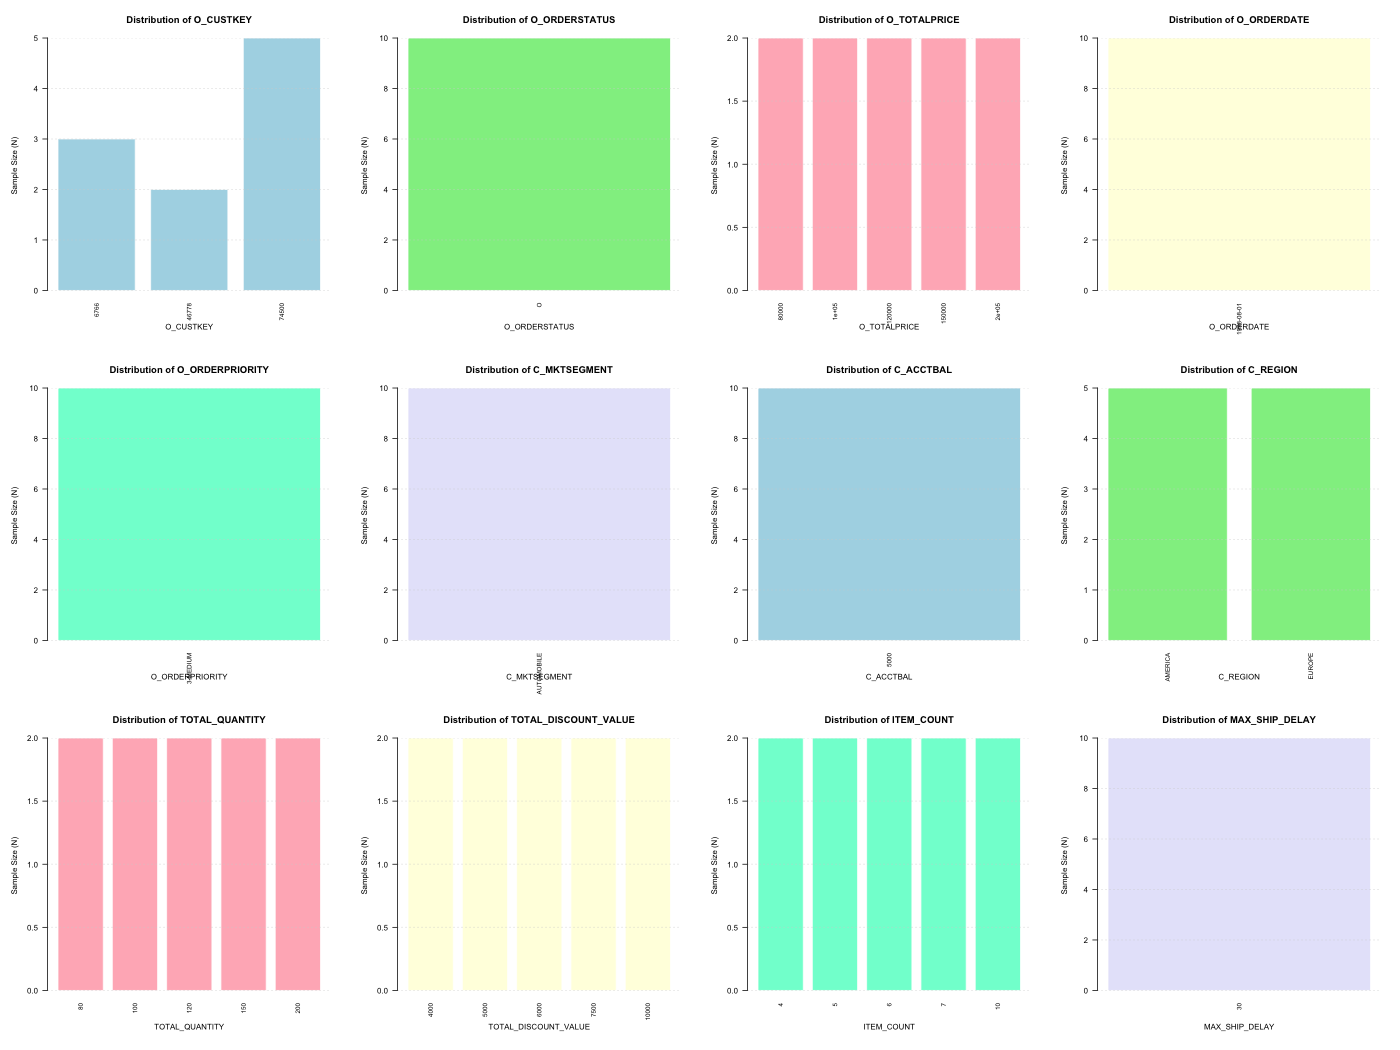
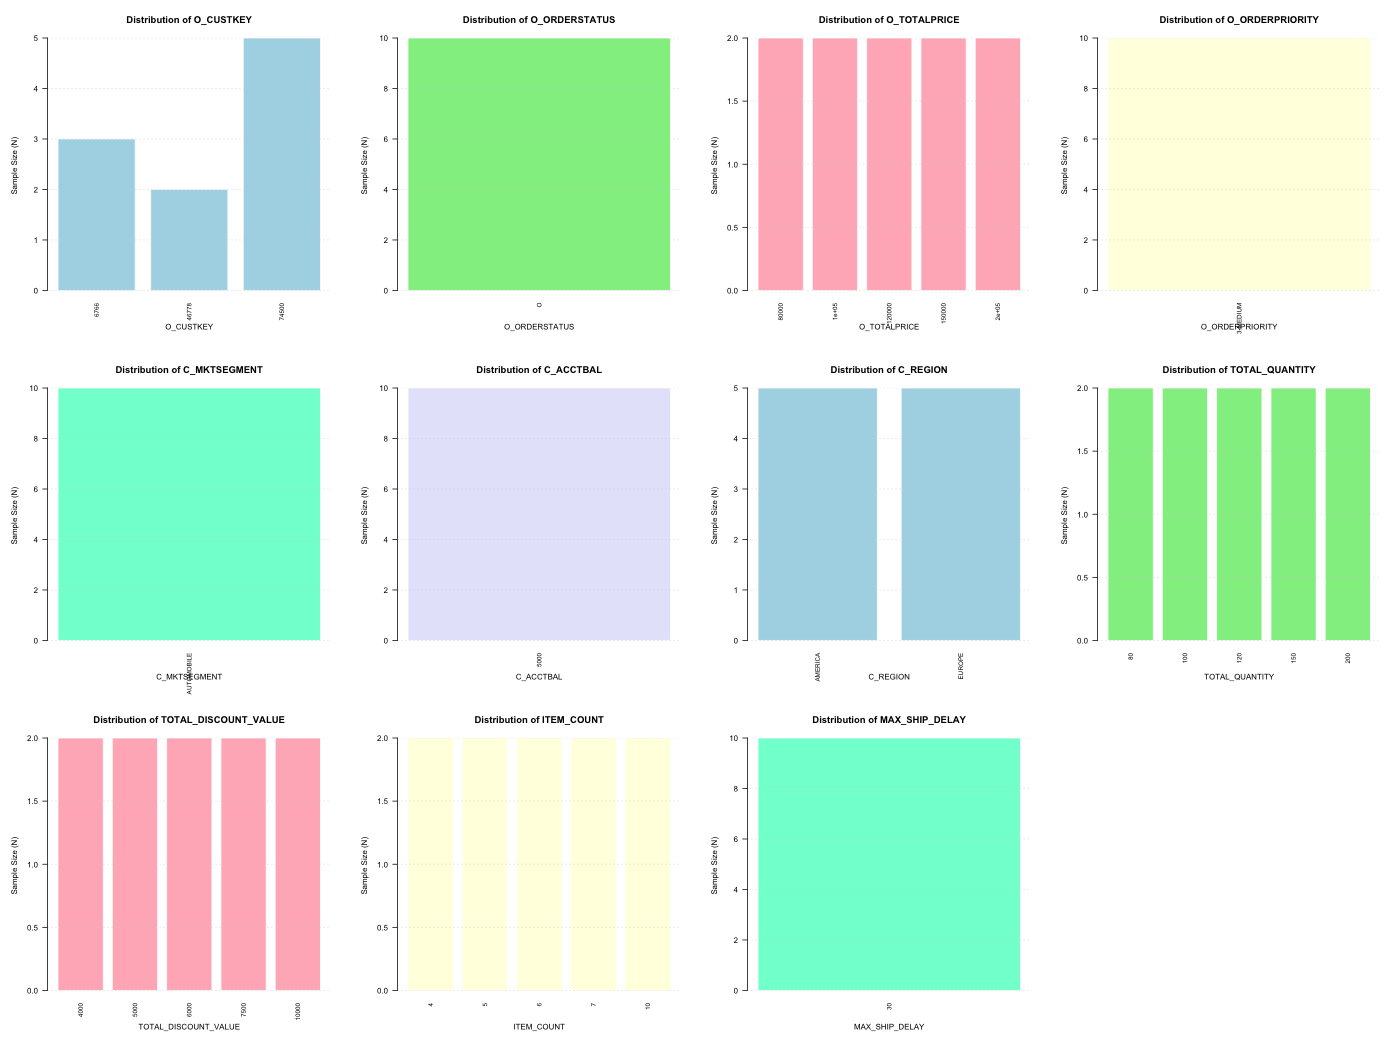
Add dynamic categorical lumping to support high-cardinality tree species columns

diff --git a/gen/customer_orders_anomalous_audit_report.md b/gen/customer_orders_anomalous_audit_report.md
@@ -1,6 +1,6 @@
 # SQL Data Quality and Behavior Analysis Lab Report: customer_orders_anomalous
 
-**Report Generated on:** 2026-07-21 16:42:36.187709
+**Report Generated on:** 2026-07-21 16:50:15.377051
 **Source Dataset:** `customer_orders_anomalous.csv`
 **Auditor Classification Status:** CRITICAL ANOMALY DETECTED 🔴
 
@@ -31,7 +31,6 @@ The demographic distribution of the sample is detailed below:
 | **O_TOTALPRICE** | 120000 | 2 | 20.00% |
 | **O_TOTALPRICE** | 150000 | 2 | 20.00% |
 | **O_TOTALPRICE** | 2e+05 | 2 | 20.00% |
-| **O_ORDERDATE** | 1998-08-01 | 10 | 100.00% |
 | **O_ORDERPRIORITY** | 3-MEDIUM | 10 | 100.00% |
 | **C_MKTSEGMENT** | AUTOMOBILE | 10 | 100.00% |
 | **C_ACCTBAL** | 5000 | 10 | 100.00% |
@@ -70,8 +69,8 @@ To profile user choice dynamics, click patterns, and decision hesitation (Pongra
 
 ### Experimental Design
 We define a mixed multivariate design incorporating:
-* **Independent Variables (Factors)**: `C_MKTSEGMENT` (Market Segment), `C_REGION` (Geographic region), and `O_ORDERPRIORITY` (Order priority).
-* **Dependent Variables (Metrics)**: `O_TOTALPRICE` (total price), `C_ACCTBAL` (account balance), `TOTAL_QUANTITY` (quantity ordered), `AVG_DISCOUNT` (average discount), `TOTAL_DISCOUNT_VALUE` (total discount value), `ITEM_COUNT` (lineitem count), and `MAX_SHIP_DELAY` (shipping latency).
+* **Independent Variables (Factors)**: `O_CUSTKEY`, `O_ORDERSTATUS`, `O_TOTALPRICE`, `O_ORDERPRIORITY`, `C_MKTSEGMENT`, `C_ACCTBAL`, `C_REGION`, `TOTAL_QUANTITY`, `TOTAL_DISCOUNT_VALUE`, `ITEM_COUNT`, `MAX_SHIP_DELAY`
+* **Dependent Variables (Metrics)**: `O_ORDERKEY`, `O_CUSTKEY`, `O_TOTALPRICE`, `TOTAL_QUANTITY`, `AVG_DISCOUNT`, `TOTAL_DISCOUNT_VALUE`, `ITEM_COUNT`
 
 
 
@@ -134,8 +133,8 @@ We standardized the numeric metrics and fitted a [K-Means clustering algorithm](
 
 | Persona Cluster | Order Count | Percentage (%) |
 |---|---|---|
-| **Cluster 1** | 7 | 70.00% |
-| **Cluster 2** | 3 | 30.00% |
+| **Cluster 1** | 3 | 30.00% |
+| **Cluster 2** | 7 | 70.00% |
 
 
 #### Population Profiles (Cluster Feature Means)
@@ -143,8 +142,8 @@ To characterize the discovered customer order personas in terms of the original 
 
 | Cluster | O_ORDERKEY | O_CUSTKEY | O_TOTALPRICE | TOTAL_QUANTITY | AVG_DISCOUNT | TOTAL_DISCOUNT_VALUE | ITEM_COUNT |
 |---|---|---|---|---|---|---|---|
-| **Cluster 1** | 6.14 | 56903.14 | 107142.86 | 107.14 | 0.05 | 5357.14 | 5.29 |
-| **Cluster 2** | 3.00 | 29344.00 | 183333.33 | 183.33 | 0.05 | 9166.67 | 9.00 |
+| **Cluster 1** | 3.00 | 29344.00 | 183333.33 | 183.33 | 0.05 | 9166.67 | 9.00 |
+| **Cluster 2** | 6.14 | 56903.14 | 107142.86 | 107.14 | 0.05 | 5357.14 | 5.29 |
 
 
 ## 4. Exploratory Multivariate Analysis and Cluster Diagnostics

diff --git a/gen/customer_orders_nominal_audit_report.md b/gen/customer_orders_nominal_audit_report.md
@@ -1,6 +1,6 @@
 # SQL Data Quality and Behavior Analysis Lab Report: customer_orders_nominal
 
-**Report Generated on:** 2026-07-21 16:45:50.372212
+**Report Generated on:** 2026-07-21 16:50:00.785059
 **Source Dataset:** `customer_orders_nominal.csv`
 **Auditor Classification Status:** CRITICAL ANOMALY DETECTED 🔴
 
